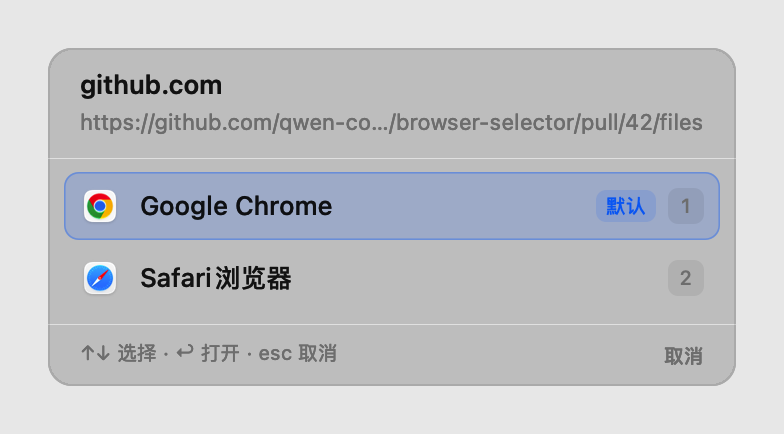
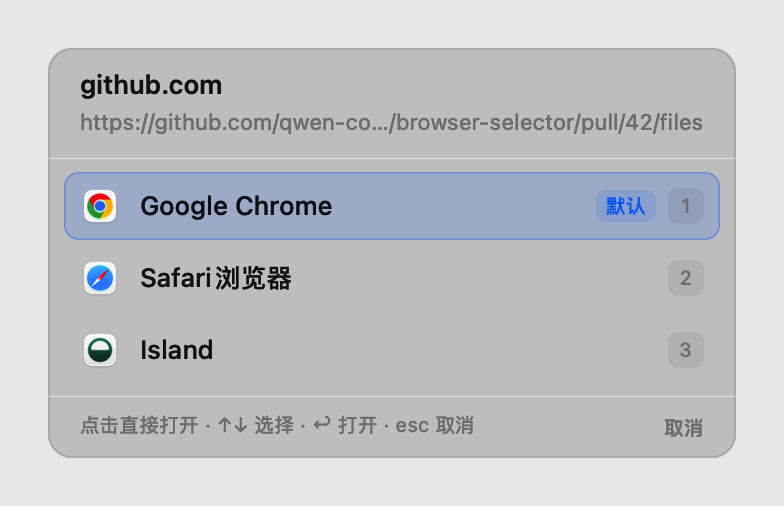
feat: 点击面板直接打开并新增关于窗口
- 面板以 nonactivatingPanel 展示、App 不激活时 AppKit 会丢弃首次点击；在面板与行视图上覆写 acceptsFirstMouse，并把图标/文字/角标的命中区归到整行
- 选择改到 mouseUp 并加按下高亮，面板关闭后按下/抬起不再落到下层应用；取消按钮同样接受首次点击
- 状态栏菜单新增「关于浏览器选择器」，显示图标、版本号与构建号，版本读取 Info.plist
- 设置页版本号改为动态读取；底部提示与 README、面板截图同步更新

diff --git a/Sources/BrowserSelector/AboutWindowController.swift b/Sources/BrowserSelector/AboutWindowController.swift
@@ -1,0 +1,107 @@
+import AppKit
+
+/// 「关于」窗口：按需创建，关闭后保留实例，避免重复分配。
+final class AboutWindowController: NSWindowController {
+    private static let contentSize = NSSize(width: 360, height: 300)
+
+    init() {
+        let window = NSWindow(
+            contentRect: NSRect(origin: .zero, size: Self.contentSize),
+            styleMask: [.titled, .closable],
+            backing: .buffered,
+            defer: false
+        )
+        window.title = "关于浏览器选择器"
+        window.isReleasedWhenClosed = false
+        window.contentView = AboutContentView(frame: NSRect(origin: .zero, size: Self.contentSize))
+        window.center()
+
+        super.init(window: window)
+    }
+
+    required init?(coder: NSCoder) {
+        fatalError("init(coder:) has not been implemented")
+    }
+
+    func present() {
+        if #available(macOS 14.0, *) {
+            NSApp.activate()
+        } else {
+            NSApp.activate(ignoringOtherApps: true)
+        }
+        window?.center()
+        window?.makeKeyAndOrderFront(nil)
+    }
+}
+
+private final class AboutContentView: NSView {
+    private let iconView = NSImageView()
+    private let nameLabel = NSTextField(labelWithString: "浏览器选择器")
+    private let versionLabel = NSTextField(labelWithString: "版本 \(AppVersion.display)")
+    private let descriptionLabel = NSTextField(
+        wrappingLabelWithString: "在钉钉 / 微信 / QQ 中长按链接，\n在光标位置选择浏览器打开。"
+    )
+    private let privacyLabel = NSTextField(
+        labelWithString: "无网络请求 · 无日志落盘 · 配置只保存在本机"
+    )
+    private let closeButton = NSButton(title: "好", target: nil, action: nil)
+
+    override var isFlipped: Bool { true }
+
+    override init(frame: NSRect) {
+        super.init(frame: frame)
+        setup()
+    }
+
+    required init?(coder: NSCoder) {
+        fatalError("init(coder:) has not been implemented")
+    }
+
+    override func layout() {
+        super.layout()
+
+        let width = bounds.width
+        iconView.frame = NSRect(x: (width - 72) / 2, y: 26, width: 72, height: 72)
+        nameLabel.frame = NSRect(x: 30, y: 112, width: width - 60, height: 24)
+        versionLabel.frame = NSRect(x: 30, y: 139, width: width - 60, height: 16)
+        descriptionLabel.frame = NSRect(x: 40, y: 165, width: width - 80, height: 32)
+        privacyLabel.frame = NSRect(x: 30, y: 205, width: width - 60, height: 14)
+        closeButton.frame = NSRect(x: (width - 70) / 2, y: 238, width: 70, height: 30)
+    }
+
+    private func setup() {
+        iconView.image = NSApp.applicationIconImage
+        iconView.imageScaling = .scaleProportionallyUpOrDown
+        addSubview(iconView)
+
+        nameLabel.font = .systemFont(ofSize: 20, weight: .semibold)
+        nameLabel.alignment = .center
+        addSubview(nameLabel)
+
+        versionLabel.font = .monospacedDigitSystemFont(ofSize: 11, weight: .regular)
+        versionLabel.textColor = .secondaryLabelColor
+        versionLabel.alignment = .center
+        addSubview(versionLabel)
+
+        descriptionLabel.font = .systemFont(ofSize: 11)
+        descriptionLabel.textColor = .secondaryLabelColor
+        descriptionLabel.alignment = .center
+        descriptionLabel.maximumNumberOfLines = 2
+        addSubview(descriptionLabel)
+
+        privacyLabel.font = .systemFont(ofSize: 10)
+        privacyLabel.textColor = .tertiaryLabelColor
+        privacyLabel.alignment = .center
+        addSubview(privacyLabel)
+
+        closeButton.bezelStyle = .rounded
+        closeButton.keyEquivalent = "\r"
+        closeButton.target = self
+        closeButton.action = #selector(closeClicked)
+        addSubview(closeButton)
+    }
+
+    @objc private func closeClicked() {
+        window?.performClose(nil)
+    }
+}

diff --git a/Sources/BrowserSelector/PickerView.swift b/Sources/BrowserSelector/PickerView.swift
@@ -71,12 +71,16 @@ final class PickerContentView: NSVisualEffectView {
     private let listView = FlippedView()
     private let hostLabel = NSTextField(labelWithString: "")
     private let urlLabel = NSTextField(labelWithString: "")
-    private let hintLabel = NSTextField(labelWithString: "↑↓ 选择 · ↩ 打开 · esc 取消")
-    private let cancelButton = NSButton(title: "取消", target: nil, action: nil)
+    private let hintLabel = NSTextField(labelWithString: "点击直接打开 · ↑↓ 选择 · ↩ 打开 · esc 取消")
+    private let cancelButton = FirstMouseButton(title: "取消", target: nil, action: nil)
     private let topDivider = NSBox()
     private let bottomDivider = NSBox()
 
     override var isFlipped: Bool { true }
+
+    /// 面板展示时 App 不是激活状态，窗口也不是 key window。返回 true 才能让
+    /// 第一次点击落到面板上，否则 AppKit 会把它当作“激活点击”丢弃。
+    override func acceptsFirstMouse(for event: NSEvent?) -> Bool { true }
 
     init(
         state: PickerState,
@@ -245,6 +249,10 @@ private final class BrowserRowView: NSView {
         didSet { needsDisplay = true }
     }
 
+    private var isPressed = false {
+        didSet { needsDisplay = true }
+    }
+
     private let iconView = NSImageView()
     private let nameLabel = NSTextField(labelWithString: "")
     private let detailLabel = NSTextField(labelWithString: "")
@@ -253,6 +261,14 @@ private final class BrowserRowView: NSView {
     private var trackingArea: NSTrackingArea?
 
     override var isFlipped: Bool { true }
+
+    override func acceptsFirstMouse(for event: NSEvent?) -> Bool { true }
+
+    /// 图标 / 文字 / 角标都归到行本身，避免点在子视图上时点到的是不接受
+    /// 首次点击的控件，导致同一行有的地方能点、有的地方点不动。
+    override func hitTest(_ point: NSPoint) -> NSView? {
+        bounds.contains(convert(point, from: superview)) ? self : nil
+    }
 
     init() {
         super.init(frame: .zero)
@@ -320,11 +336,11 @@ private final class BrowserRowView: NSView {
     }
 
     override func draw(_ dirtyRect: NSRect) {
-        guard isSelected else { return }
-        NSColor.controlAccentColor.withAlphaComponent(0.18).setFill()
+        guard isSelected || isPressed else { return }
+        NSColor.controlAccentColor.withAlphaComponent(isPressed ? 0.30 : 0.18).setFill()
         NSBezierPath(roundedRect: bounds, xRadius: 7, yRadius: 7).fill()
 
-        NSColor.controlAccentColor.withAlphaComponent(0.35).setStroke()
+        NSColor.controlAccentColor.withAlphaComponent(isPressed ? 0.55 : 0.35).setStroke()
         let border = NSBezierPath(
             roundedRect: bounds.insetBy(dx: 0.4, dy: 0.4),
             xRadius: 7,
@@ -354,8 +370,21 @@ private final class BrowserRowView: NSView {
     }
 
     override func mouseDown(with event: NSEvent) {
+        isPressed = true
+    }
+
+    override func mouseUp(with event: NSEvent) {
+        guard isPressed else { return }
+        isPressed = false
+        // 在 mouseUp 里选择：面板会立即关闭，按下/抬起都不再落到下层应用。
+        guard bounds.contains(convert(event.locationInWindow, from: nil)) else { return }
         onSelect?()
     }
+}
+
+/// 面板是非激活窗口，按钮也要接受第一次点击。
+private final class FirstMouseButton: NSButton {
+    override func acceptsFirstMouse(for event: NSEvent?) -> Bool { true }
 }
 
 private final class BadgeView: NSView {

diff --git a/Sources/BrowserSelector/AppDelegate.swift b/Sources/BrowserSelector/AppDelegate.swift
@@ -13,6 +13,8 @@ final class AppDelegate: NSObject, NSApplicationDelegate, NSMenuDelegate {
     private var pickerController: PickerController!
     private var settingsWindowController: SettingsWindowController?
     private var settingsCloseObserver: NSObjectProtocol?
+    private var aboutWindowController: AboutWindowController?
+    private var aboutCloseObserver: NSObjectProtocol?
 
     private var statusItem: NSStatusItem?
     private var statusLabelItem: NSMenuItem?
@@ -175,6 +177,7 @@ final class AppDelegate: NSObject, NSApplicationDelegate, NSMenuDelegate {
         menu.addItem(makeMenuItem("预览选择面板", action: #selector(previewPickerMenuAction), key: ""))
         menu.addItem(makeMenuItem("诊断信息…", action: #selector(showDiagnostics), key: ""))
         menu.addItem(.separator())
+        menu.addItem(makeMenuItem("关于浏览器选择器", action: #selector(openAbout), key: ""))
         menu.addItem(makeMenuItem("退出", action: #selector(quit), key: "q"))
 
         item.menu = menu
@@ -541,6 +544,25 @@ final class AppDelegate: NSObject, NSApplicationDelegate, NSMenuDelegate {
             settingsWindowController = controller
         }
         settingsWindowController?.present()
+    }
+
+    @objc private func openAbout() {
+        if aboutWindowController == nil {
+            let controller = AboutWindowController()
+            if let window = controller.window {
+                aboutCloseObserver = NotificationCenter.default.addObserver(
+                    forName: NSWindow.willCloseNotification,
+                    object: window,
+                    queue: .main
+                ) { [weak self] _ in
+                    DispatchQueue.main.asyncAfter(deadline: .now() + 0.2) {
+                        self?.refreshFrontmost()
+                    }
+                }
+            }
+            aboutWindowController = controller
+        }
+        aboutWindowController?.present()
     }
 
     @objc private func togglePause() {

diff --git a/Sources/BrowserSelector/PickerController.swift b/Sources/BrowserSelector/PickerController.swift
@@ -117,15 +117,18 @@ final class PickerController {
         let contentView = PickerContentView(
             state: state,
             onSelect: { [weak self] browser in
+                ClickTrace.log("picker select=\(browser.displayName)")
                 self?.dismiss(selecting: browser)
             },
             onCancel: { [weak self] in
+                ClickTrace.log("picker cancel")
                 self?.dismiss(selecting: nil)
             }
         )
         self.contentView = contentView
         panel.contentView = contentView
         panel.setFrame(frame(for: size, near: point), display: false)
+        ClickTrace.log("picker show frame=\(panel.frame) rows=\(browsers.count)")
 
         self.panel = panel
         installMonitors()
@@ -213,6 +216,7 @@ final class PickerController {
         globalMonitor = NSEvent.addGlobalMonitorForEvents(
             matching: [.leftMouseDown, .rightMouseDown, .otherMouseDown]
         ) { [weak self] _ in
+            ClickTrace.log("picker outsideClick")
             self?.dismiss(selecting: nil)
         }
     }

diff --git a/Sources/BrowserSelector/AppVersion.swift b/Sources/BrowserSelector/AppVersion.swift
@@ -1,0 +1,14 @@
+import Foundation
+
+/// 版本号来自 app 包的 Info.plist（project.yml / Resources/Info.plist）。
+/// `swift run` 直接跑可执行文件时没有 Info.plist，回退到当前发布版本。
+enum AppVersion {
+    static let shortVersion: String =
+        Bundle.main.object(forInfoDictionaryKey: "CFBundleShortVersionString") as? String ?? "1.0.0"
+
+    static let build: String =
+        Bundle.main.object(forInfoDictionaryKey: "CFBundleVersion") as? String ?? "1"
+
+    /// 例："1.0.0（1）"
+    static var display: String { "\(shortVersion)（\(build)）" }
+}

diff --git a/Sources/BrowserSelector/SettingsView.swift b/Sources/BrowserSelector/SettingsView.swift
@@ -66,7 +66,7 @@ struct SettingsView: View {
                 .buttonStyle(.plain)
             }
             Spacer(minLength: 0)
-            Text("BrowserSelector 1.0")
+            Text("BrowserSelector \(AppVersion.shortVersion)")
                 .font(.system(size: 9))
                 .foregroundStyle(.tertiary)
                 .padding(.horizontal, 9)

diff --git a/README.md b/README.md
@@ -21,13 +21,14 @@ macOS 菜单栏常驻工具：在目标应用（默认钉钉 / 微信 / QQ）里
 - **单实例运行**：启动时持有进程锁并检查同 Bundle ID 实例；重复启动会唤起已运行实例的设置窗口后退出，不会出现多个状态栏图标或重复 EventTap。
 - **长按阈值**：仅对「旁路观察（长按）」的应用生效；「吞掉并回放（点击）」应用点击即处理，不等长按。
 - **链接提取**：AX 祖先链找 `AXURL` / `AXLinkURL`；钉钉常见的只读消息文本区用 `AXRangeForPosition` 按点击位置匹配 URL；再退到选中文本 / 剪贴板兜底（仅当 AX 完全不可用时，默认延迟 50ms，可配置）。
-- **浏览器面板**：纯 AppKit 绘制，不抢焦点；图标 / 默认标记 / `1…9` 快捷键 / ↑↓ / ↩ / esc，右下角有可点击的「取消」。面板显示期间临时注册 Carbon 全局热键，关闭立即注销，不需要输入监控权限。
+- **浏览器面板**：纯 AppKit 绘制，不抢焦点；单击任意一行即可直接打开，也支持图标 / 默认标记 / `1…9` 快捷键 / ↑↓ / ↩ / esc，右下角有可点击的「取消」。面板显示期间临时注册 Carbon 全局热键，关闭立即注销，不需要输入监控权限。
 - **浏览器启动**：`NSWorkspace` 精准指定 App；支持每个浏览器独立的参数模板，`{url}` 占位符，例如 `--incognito --user-data-dir=/tmp/profile {url}`。
 - **未注册浏览器**：设置页可手动添加便携版 / 自定义路径的 `.app`，填路径或 Bundle ID 其一即可。
 - **域名路由**：正则匹配 host 或完整 URL，命中后跳过面板直接打开；规则按顺序执行（仅「吞掉并回放（点击）」模式）。
 - **修饰键**：可选「仅 ⌘+Click 弹面板」，普通点击走规则 / 默认浏览器（仅「吞掉并回放（点击）」模式）。
 - **排除规则**：按 Bundle ID 或窗口标题关键字跳过拦截（标题需要屏幕录制权限）。
 - **权限引导**：菜单与设置页实时显示辅助功能 / 屏幕录制状态，支持重新检测并启动监听。
+- **关于窗口**：菜单 → **关于浏览器选择器** 显示图标、版本号与构建号，版本号取自 `Info.plist`（`project.yml` 的 `CFBundleShortVersionString` / `CFBundleVersion`）。
 
 ## 工程结构
 
@@ -51,6 +52,8 @@ Sources/BrowserSelector/         AppKit 常驻进程
   PickerView.swift / PickerController.swift   AppKit 选择面板
   PanelHotKeyManager.swift       面板期间的 Carbon 全局热键（esc / ↑↓ / ↩ / 1–9）
   Settings*.swift                设置窗口（SwiftUI，按需加载）
+  AboutWindowController.swift    「关于」窗口（版本号来自 Info.plist）
+  AppVersion.swift               读取 CFBundleShortVersionString / CFBundleVersion
   Diagnostics.swift              RSS / footprint / CPU 采样
 
 Tests/BrowserSelectorCoreTests/  32 个单元测试
